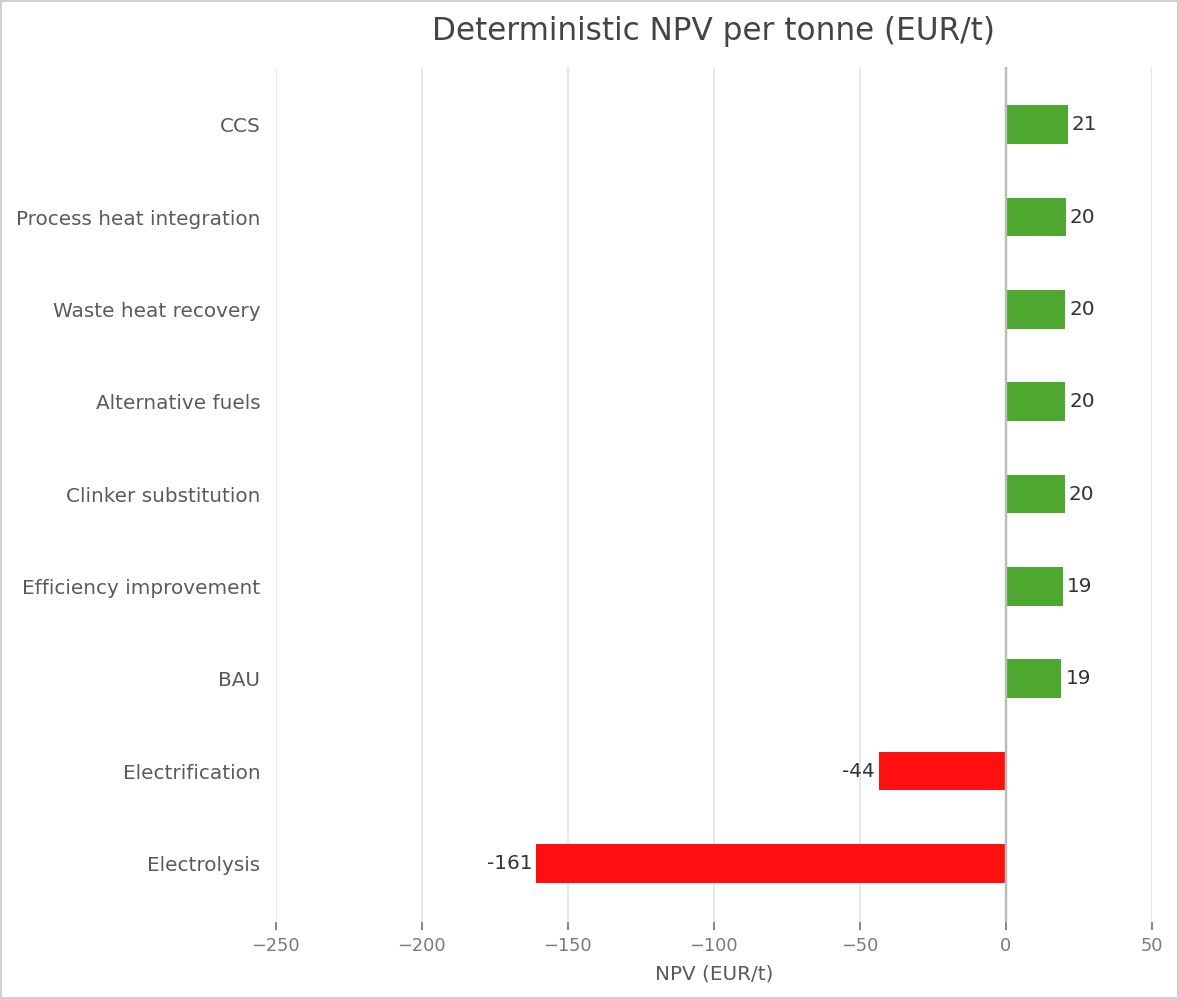
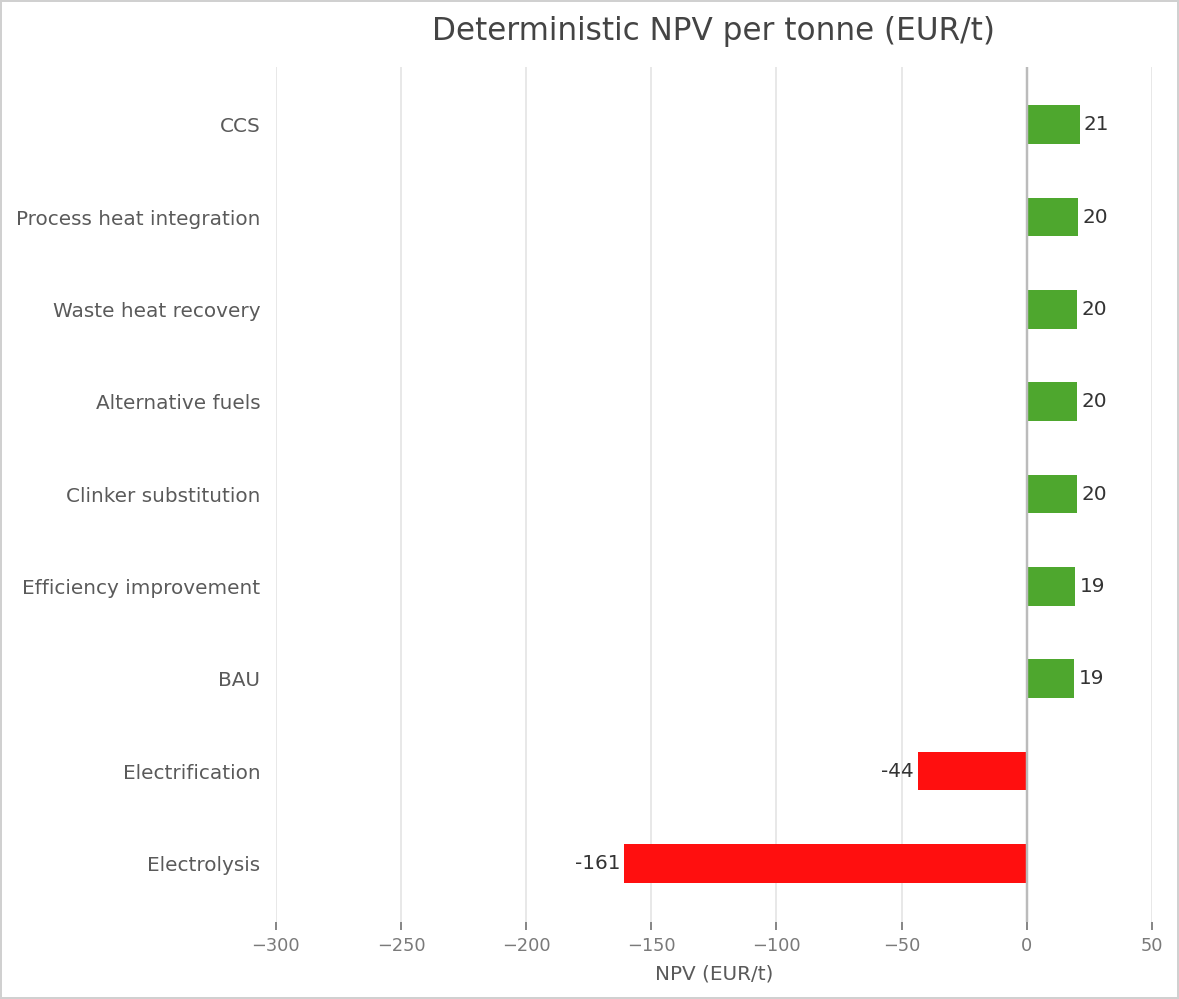
"Axis unifmorn"

diff --git a/src/npv_summary_plots.py b/src/npv_summary_plots.py
@@ -103,7 +103,7 @@ def fixed_npv_bar_axis_config(
     )
 
     if sector_key == "cement" and npv_scale == "EUR/t":
-        lower = -250 if p05_minimum < -200 else -200
+        lower = -300 if p05_minimum < -200 else -200
         return (float(lower), 50.0), tuple(float(value) for value in range(lower, 51, 50))
     if sector_key == "electricity" and npv_scale == "EUR/MWh":
         return (-150.0, 50.0), (-150.0, -100.0, -50.0, 0.0, 50.0)

diff --git a/CHANGELOG.md b/CHANGELOG.md
@@ -1,3 +1,46 @@
+## 2026-07-10 13:58 — Extend cement specific NPV axis to show full whisker
+
+### User request
+
+Change the cement specific NPV charts so the x-axis goes down to `-300 EUR/t`, because the uncertainty whisker is not shown correctly at `-250 EUR/t`. Do not change notebooks.
+
+### Files changed (if needed)
+
+- `src/npv_summary_plots.py` — changed the fixed cement specific lower axis bound from `-250` to `-300 EUR/t` when the electrolysis uncertainty whisker requires the wider range.
+- `figures/2026-07-10-Mean_NPV_per_t_Cement.png` — regenerated with the wider cement specific axis.
+- `figures/2026-07-10-Deterministic_NPV_per_t_Cement.png` — regenerated with the same cement specific axis.
+- `Excel plots/2026-07-10-NPV_chart_data.xlsx` — regenerated so the editable `Cement EUR per t` sheet uses `-300` to `+50` with `50` as the major unit.
+- `CHANGELOG.md` — added this implementation entry.
+
+### What was implemented
+
+- Cement specific Monte Carlo mean and deterministic charts now share an x-axis from `-300` to `+50 EUR/t`.
+- The Excel workbook now records:
+  - minimum: `-300`
+  - maximum: `50`
+  - major unit: `50`
+  - ticks: `-300, -250, -200, -150, -100, -50, 0, 50`
+- No notebooks were changed.
+
+### Verification (if needed)
+
+- Commands run:
+  - `PYTHONPYCACHEPREFIX=/private/tmp/masterthesis_pycache PYTHONPATH=src /opt/anaconda3/bin/python3.12 -m compileall -q src`
+  - `PYTHONPYCACHEPREFIX=/private/tmp/masterthesis_pycache PYTHONPATH=src /opt/anaconda3/bin/python3.12 -m cement.cement_npv_summary_figures --no-data --ranking-output none --kind all --npv-scale EUR/t`
+  - `PYTHONPYCACHEPREFIX=/private/tmp/masterthesis_pycache PYTHONPATH=src /opt/anaconda3/bin/python3.12 -m export_npv_chart_workbook`
+  - `openpyxl` workbook validation for the `Cement EUR per t` axis values.
+- Result:
+  - Passed.
+- Notes:
+  - Visual inspection confirmed that the cement electrolysis uncertainty whisker is visible within the `-300` to `+50 EUR/t` axis.
+
+### Reproducibility notes
+
+- Regenerate the cement specific PNGs with:
+  - `PYTHONPATH=src /opt/anaconda3/bin/python3.12 -m cement.cement_npv_summary_figures --no-data --ranking-output none --kind all --npv-scale EUR/t`
+- Regenerate the Excel workbook with:
+  - `PYTHONPATH=src /opt/anaconda3/bin/python3.12 -m export_npv_chart_workbook`
+
 ## 2026-07-10 13:54 — Apply fixed midterm NPV axes and Excel ranking exports
 
 ### User request